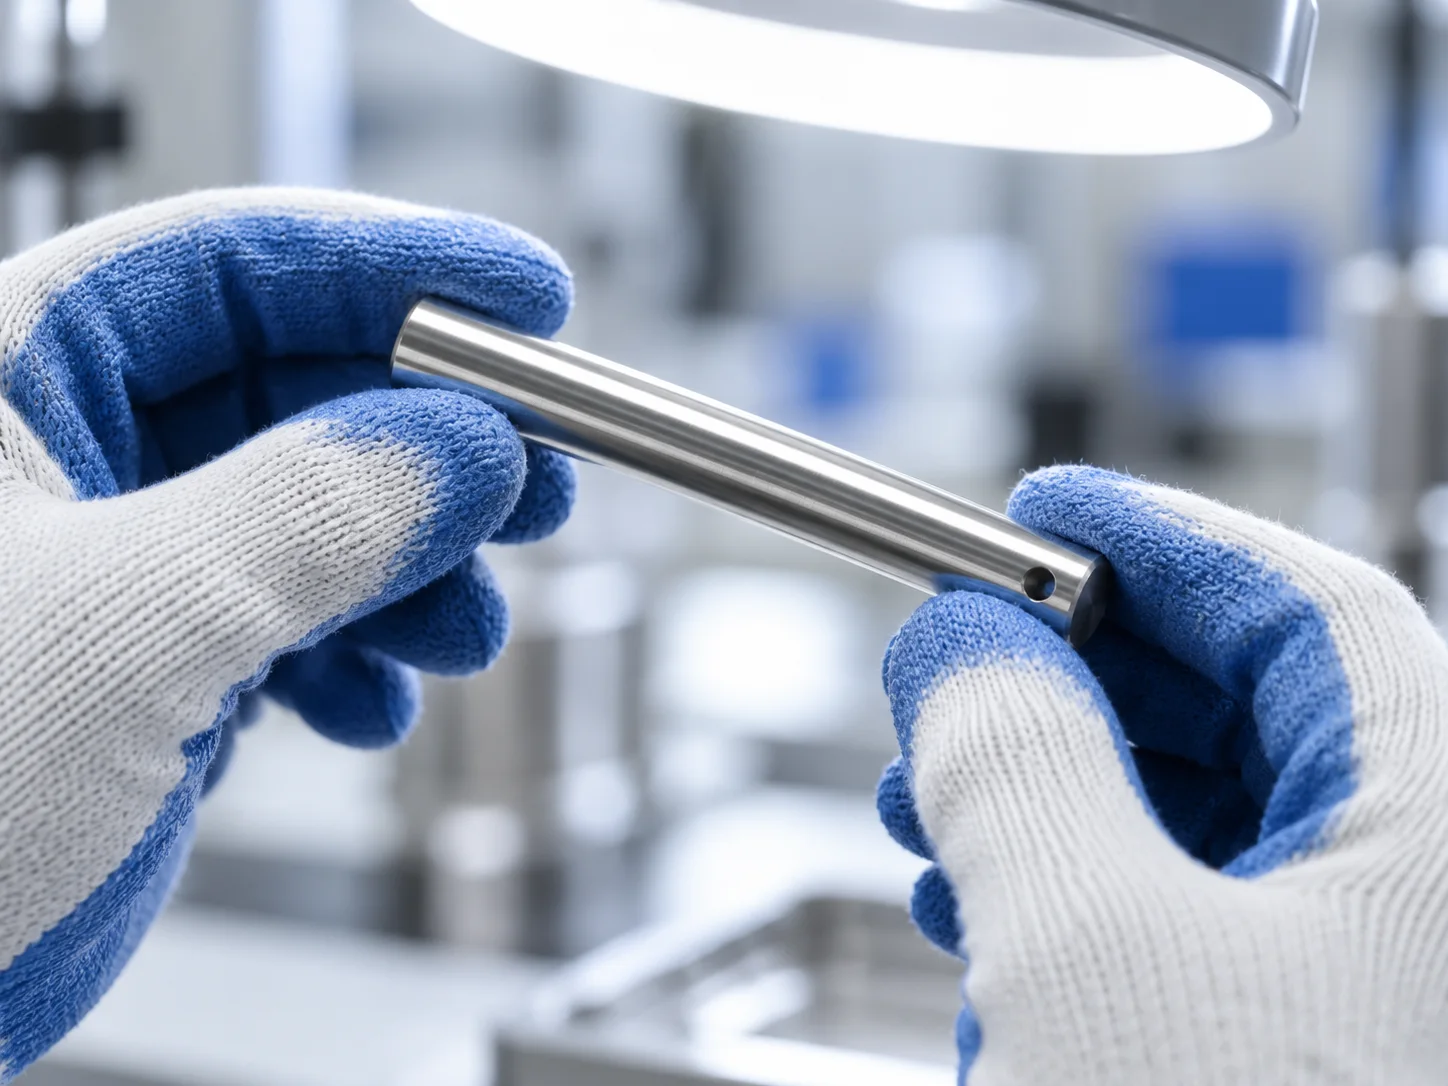
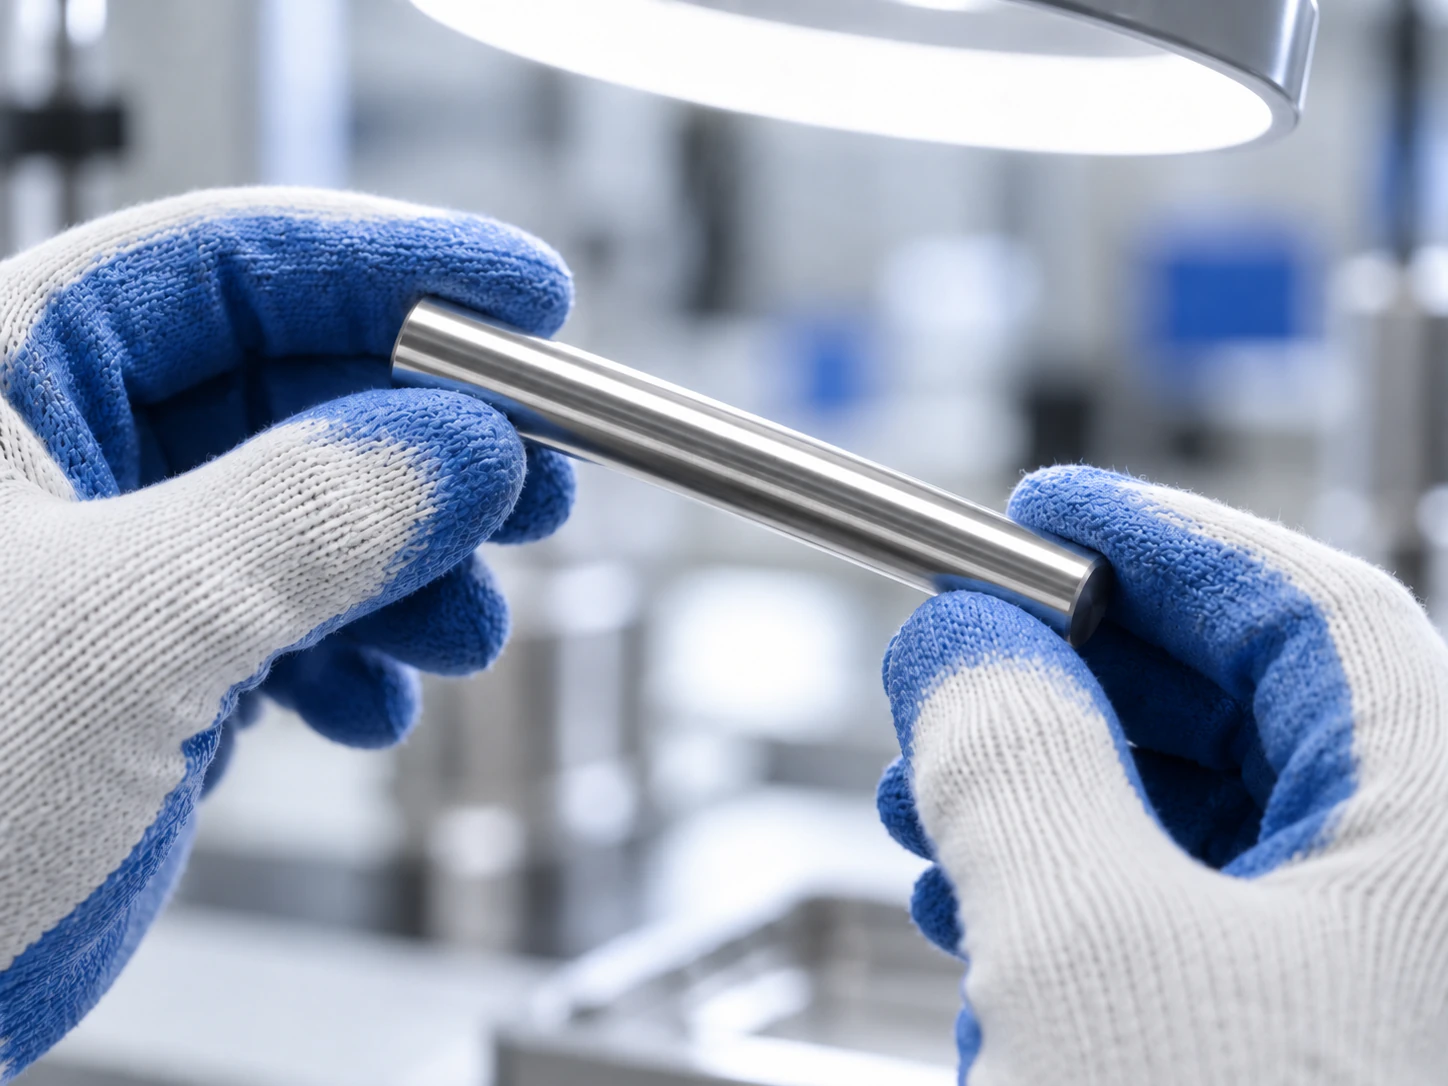
光沢仕上げの写真を穴なし部品の画像へ差し替え（#7）

diff --git a/index.html b/index.html
@@ -3,7 +3,7 @@
 <section class="section"><div class="wrap"><p class="bodyText">株式会社サンエイは、東大阪で金属バレル加工を専門に事業を続けてきました。バリ取り、スケール除去、脱脂、光沢仕上げ、メッキ前の下地処理、防錆まで、部品の材質や形状、その後の工程に合わせて表面を整えます。</p><p class="bodyText">機械チェーン、マテハン設備、立体駐車場、エレベーター関連など、さまざまな金属部品の表面処理に対応します。</p></div></section>
 <section class="news purposeNav" aria-labelledby="purposeTitle"><h2 id="purposeTitle">お探しの情報はこちら</h2><div class="purposeLinks"><a href="barrel/#processing"><span class="purposeNum">01</span><strong>加工内容を知りたい</strong><span>対応する処理・仕上がりを確認</span><b aria-hidden="true">→</b></a><a href="barrel/#equipment"><span class="purposeNum">02</span><strong>設備・工程を見たい</strong><span>バレル機と加工の流れを確認</span><b aria-hidden="true">→</b></a><a href="contact/"><span class="purposeNum">03</span><strong>加工について相談したい</strong><span>相談窓口・必要な情報を確認</span><b aria-hidden="true">→</b></a></div></section>
 <div class="flowSections"><picture class="flowSectionsBg" aria-hidden="true"><source media="(max-width:767px)" srcset="assets/sanei-flow-background-sp.svg?v=analogous-1"><img src="assets/sanei-flow-background-pc.svg?v=analogous-1" alt=""></picture><section class="section"><div class="wrap"><div class="heading center"><div class="ja">事業内容</div><div class="en">SERVICE</div></div><div class="serviceGrid"><article class="serviceCard"><img class="sitePhoto servicePhoto" src="assets/photos/01_service_barrel_factory.webp" width="1448" height="1086" loading="lazy" decoding="async" alt="回転式バレル加工設備"><div class="serviceBody"><span class="serviceNum">01</span><h3>金属バレル加工</h3><p>メーカーなどで成形・熱処理された金属部品に対し、回転式・振動式のバレル機を用いて、バリ取り、スケール除去、脱脂、洗浄、光沢仕上げなどを行います。</p><a class="cardDetail" href="barrel/">詳しく見る <span aria-hidden="true">→</span></a></div></article><article class="serviceCard"><img class="sitePhoto servicePhoto" src="assets/photos/05_process_parts_collection.webp" width="1448" height="1086" loading="lazy" decoding="async" alt="加工後の金属部品を回収する工程"><div class="serviceBody"><span class="serviceNum">02</span><h3>脱脂・光沢仕上げ</h3><p>品物の材質や形状、求める仕上がりに応じて研磨メディアとコンパウンドの組み合わせを調整し、油分や汚れ、焼けを取り除きながら表面を整えます。</p><a class="cardDetail" href="barrel/#processing">詳しく見る <span aria-hidden="true">→</span></a></div></article></div></div></section>
-<div class="worksHistory"><section class="section off worksSection"><div class="wrap"><div class="heading right"><div class="ja">加工内容・事例</div><div class="en">WORKS</div><p class="lead" style="margin-left:auto">加工前後の状態や、代表的な処理内容を写真とともに紹介します。</p></div><div class="works"><article class="workCard"><img class="sitePhoto workPhoto" src="assets/photos/10_works_deburring.webp" width="1448" height="1086" loading="lazy" decoding="async" alt="回転式バレル機によるバリ取り・スケール除去工程"><div class="workBody"><h3>バリ取り・スケール除去</h3><p>切断や加工後に残るバリを丸め、焼き入れ後の焦げやスケールを取り除き、後工程へ進みやすい表面状態へ整えます。</p><a class="cardDetail" href="barrel/#processing">加工内容を見る <span aria-hidden="true">→</span></a></div></article><article class="workCard"><img class="sitePhoto workPhoto" src="assets/photos/11_works_polishing_inspection.webp" width="1448" height="1086" loading="lazy" decoding="async" alt="脱脂・光沢仕上げ後の金属部品を確認する様子"><div class="workBody"><h3>脱脂・光沢仕上げ</h3><p>付着した油分や汚れを取り除き、素材表面を整えながら光沢を引き出します。研磨メディアの選定とコンパウンドの配合を品物ごとに調整し、求める仕上がりに合わせます。</p><a class="cardDetail" href="barrel/#processing">加工内容を見る <span aria-hidden="true">→</span></a></div></article><article class="workCard"><img class="sitePhoto workPhoto" src="assets/photos/12_works_plating_rustproof.webp" width="1448" height="1086" loading="lazy" decoding="async" alt="メッキ下地・防錆処理後の金属部品"><div class="workBody"><h3>メッキ下地・防錆処理</h3><p>メッキが付きやすい状態への下地処理や、加工後の錆を抑える防錆処理にも対応します。</p><a class="cardDetail" href="barrel/#processing">加工内容を見る <span aria-hidden="true">→</span></a></div></article></div></div></section>
+<div class="worksHistory"><section class="section off worksSection"><div class="wrap"><div class="heading right"><div class="ja">加工内容・事例</div><div class="en">WORKS</div><p class="lead" style="margin-left:auto">加工前後の状態や、代表的な処理内容を写真とともに紹介します。</p></div><div class="works"><article class="workCard"><img class="sitePhoto workPhoto" src="assets/photos/10_works_deburring.webp" width="1448" height="1086" loading="lazy" decoding="async" alt="回転式バレル機によるバリ取り・スケール除去工程"><div class="workBody"><h3>バリ取り・スケール除去</h3><p>切断や加工後に残るバリを丸め、焼き入れ後の焦げやスケールを取り除き、後工程へ進みやすい表面状態へ整えます。</p><a class="cardDetail" href="barrel/#processing">加工内容を見る <span aria-hidden="true">→</span></a></div></article><article class="workCard"><img class="sitePhoto workPhoto" src="assets/photos/11_works_polishing_inspection.webp?v=20260929" width="1448" height="1086" loading="lazy" decoding="async" alt="脱脂・光沢仕上げ後の金属部品を確認する様子"><div class="workBody"><h3>脱脂・光沢仕上げ</h3><p>付着した油分や汚れを取り除き、素材表面を整えながら光沢を引き出します。研磨メディアの選定とコンパウンドの配合を品物ごとに調整し、求める仕上がりに合わせます。</p><a class="cardDetail" href="barrel/#processing">加工内容を見る <span aria-hidden="true">→</span></a></div></article><article class="workCard"><img class="sitePhoto workPhoto" src="assets/photos/12_works_plating_rustproof.webp" width="1448" height="1086" loading="lazy" decoding="async" alt="メッキ下地・防錆処理後の金属部品"><div class="workBody"><h3>メッキ下地・防錆処理</h3><p>メッキが付きやすい状態への下地処理や、加工後の錆を抑える防錆処理にも対応します。</p><a class="cardDetail" href="barrel/#processing">加工内容を見る <span aria-hidden="true">→</span></a></div></article></div></div></section>
 <section class="section instagramSection" aria-labelledby="instagramTitle"><div class="wrap"><div class="heading"><div class="ja">新着投稿</div><div class="en" id="instagramTitle">NEWS / INSTAGRAM</div></div><p class="lead">工場の様子や設備、加工前後の比較、加工事例をInstagramで発信しています。</p><!-- TODO: Instagramアカウント確定後、この枠を公式の埋め込みコード（投稿フィード）に差し替える --><div class="photoPlaceholder instagramEmbed" role="img" aria-label="Instagram 埋め込み枠（準備中）">Instagram 埋め込み枠<br>アカウント確定後、最新の投稿をここに表示します</div></div></section>
 <section class="historyBand historyEditorial historyMinimal" aria-labelledby="historyTitle"><div class="wrap historyLayout"><div class="historyIntro"><div class="historyEyebrow">ABOUT SANEI</div><h2 id="historyTitle">1972年から、<br>磨く技術を<br>次の世代へ。</h2></div><div class="historyStory"><p>1972年（昭和47年）の創業以来、サンエイは金属バレル加工を専門に事業を続けてきました。創業家で世代を重ねながら、技術と経験を受け継いでいます。</p><div class="historyFacts"><div><span>創業</span><strong>1972年（昭和47年）</strong></div><div><span>事業内容</span><strong>金属バレル加工</strong></div></div><a class="historyLink" href="company/#history">サンエイの歩みを見る <span aria-hidden="true">→</span></a><a class="historyLink companyOverviewLink" href="company/">会社概要・アクセスを見る <span aria-hidden="true">→</span></a></div></div></section></div></div>
 <section class="contactBannerSection"><div class="wrap contactBanner contactFrame"><div class="bannerWaves" aria-hidden="true"><span class="bannerWave top"></span><span class="bannerWave back"></span><span class="bannerWave middle"></span></div><h2>加工のご相談・お見積りについて</h2><p class="bannerCopy">小ロットからのご依頼も承ります。</p><div class="contactFrameGrid"><a class="contactFrameMail" href="contact/"><span class="mailSymbol" aria-hidden="true">✉</span><span><small>加工相談・お見積りはこちら</small><strong>CONTACT</strong></span><span class="frameArrow" aria-hidden="true">→</span></a><a class="contactFramePhone" href="tel:0667225849" aria-label="電話で問い合わせる 06-6722-5849"><span>お電話でのお問い合わせ</span><strong>06-6722-5849</strong><small>タップして電話をかける</small></a></div></div></section>

diff --git a/barrel/index.html b/barrel/index.html
@@ -37,7 +37,7 @@
 <p class="lead">品物の材質や形状、その後の工程に合わせて、次の処理に対応しています。</p>
 <ol class="serviceRow">
 <li class="serviceItem"><figure><img class="sitePhoto" src="../assets/photos/10_works_deburring.webp" width="1448" height="1086" loading="lazy" decoding="async" alt="回転式バレル機によるバリ取り・スケール除去工程"><span>01</span></figure><div class="serviceItemBody"><h3><span>バリ取り・</span><span>スケール除去</span></h3><p>切断や加工後に残る返りや角を丸め、焼き入れ後の焦げ、スケール、不純物などを取り除きます。</p></div></li>
-<li class="serviceItem"><figure><img class="sitePhoto" src="../assets/photos/11_works_polishing_inspection.webp" width="1448" height="1086" loading="lazy" decoding="async" alt="脱脂・光沢仕上げ後の金属部品を確認する様子"><span>02</span></figure><div class="serviceItemBody"><h3><span>脱脂・</span><span>光沢仕上げ</span></h3><p>部品に付着した油分や汚れを落としながら、表面の状態を整えて光沢を引き出します。</p></div></li>
+<li class="serviceItem"><figure><img class="sitePhoto" src="../assets/photos/11_works_polishing_inspection.webp?v=20260929" width="1448" height="1086" loading="lazy" decoding="async" alt="脱脂・光沢仕上げ後の金属部品を確認する様子"><span>02</span></figure><div class="serviceItemBody"><h3><span>脱脂・</span><span>光沢仕上げ</span></h3><p>部品に付着した油分や汚れを落としながら、表面の状態を整えて光沢を引き出します。</p></div></li>
 <li class="serviceItem"><figure><img class="sitePhoto" src="../assets/photos/12_works_plating_rustproof.webp" width="1448" height="1086" loading="lazy" decoding="async" alt="メッキ下地・防錆処理後の金属部品"><span>03</span></figure><div class="serviceItemBody"><h3>メッキ下地処理</h3><p>メッキが付きやすい表面状態へ整え、後工程へつなぎます。</p></div></li>
 <li class="serviceItem"><figure><img class="sitePhoto" src="../assets/photos/09_after.webp" width="1448" height="1086" loading="lazy" decoding="async" alt="バレル加工後の金属部品"><span>04</span></figure><div class="serviceItemBody"><h3><span>防錆・</span><span>洗浄・</span><span>脱水</span></h3><p>必要に応じて防錆油の塗布、洗浄、脱水まで行い、搬送時の状態も考慮して仕上げます。</p></div></li>
 <li class="serviceItem"><figure><img class="sitePhoto" src="../assets/photos/05_process_parts_collection.webp" width="1448" height="1086" loading="lazy" decoding="async" alt="加工された金属部品の回収工程"><span>05</span></figure><div class="serviceItemBody"><h3>小ロット加工</h3><p>少量の部品でも、品物ごとに研磨メディアとコンパウンド、加工条件を設定して加工します。試作や少量生産、単発のご依頼にも対応します。</p></div></li>

diff --git a/company/index.html b/company/index.html
@@ -49,7 +49,7 @@
 </div>
 </section>
 <section class="section trust trustRefined trustSplit">
-<img class="trustPhoto" src="../assets/photos/11_works_polishing_inspection.webp" width="1448" height="1086" loading="lazy" decoding="async" alt="">
+<img class="trustPhoto" src="../assets/photos/11_works_polishing_inspection.webp?v=20260929" width="1448" height="1086" loading="lazy" decoding="async" alt="">
 <div class="wrap">
 <div class="trustLayout">
 <div class="heading"><div class="ja">技術と信頼</div><div class="en">TRUST</div></div>
